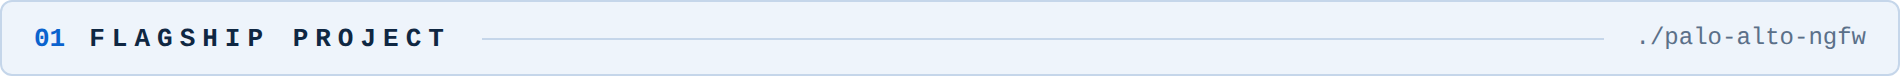
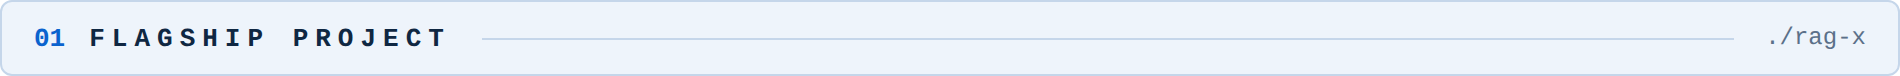
Add files via upload

Changed region(s): [[0.8384, 0.3421, 0.9937, 0.6053]]

diff --git a/README.md b/README.md
@@ -6,16 +6,17 @@
 </p>
 <p><img src="status-strip.png" width="100%" alt="Open to internship and 2027 full-time roles. Delhi-NCR. B.Tech CSE, class of 2027."></p>
 <p><img src="h-01-project.png" width="100%" alt="01 Flagship project"></p>
-<h3><a href="https://github.com/raghavguptaa/Enterprise-Network-Security-Implementation-using-Palo-Alto-Next-Generation-Firewall-NGFW-">Enterprise Network Security with Palo Alto NGFW</a></h3>
-<p><b>Hands-on Palo Alto next-generation firewall labs, built in real deployment order: from interfaces to SSL decryption.</b></p>
-<p><img src="stats-project.png" width="100%" alt="10 lessons, 2 security zones, 11 lesson folders"></p>
-<p><img src="diagram-topology.png" width="100%" alt="Ubuntu VM in the Trust zone, through the Palo Alto VM-Series firewall, to VMware NAT in the Untrust zone"></p>
+<h3><a href="https://github.com/raghavguptaa/rag-x">Rag X</a></h3>
+<p><b>A browser-based encryption toolkit for text, files and PDFs, with optional accounts, a contact inbox and a metadata-only activity dashboard.</b></p>
+<p><img src="stats-project.png" width="100%" alt="AES-256-GCM encryption, 600,000 PBKDF2 iterations, no secrets stored on the server"></p>
+<p><img src="diagram-ragx.png" width="100%" alt="Architecture: the browser encrypts text, files and vault data with the Web Crypto API; the Flask server handles PDFs, accounts and the inbox; the database stores accounts, messages and a metadata-only log"></p>
 <ul>
-<li>Configured Layer 3 Trust and Untrust interfaces, static routing, source NAT and security policy rules.</li>
-<li>Built App-ID based policies, FQDN website blocking and URL filtering, then checked every change in the traffic logs.</li>
-<li>Added QoS, ICMP flood / DoS protection and SSL decryption. Every lesson has its own write-up and screenshots.</li>
+<li>Text, file and vault encryption run entirely in the browser with the Web Crypto API (AES-256-GCM, plus PBKDF2-HMAC-SHA256 with 600,000 iterations for the password vault), so keys never leave the device.</li>
+<li>Hardened Flask backend: scrypt password hashing, CSRF tokens, per-IP and per-account rate limits, a strict Content Security Policy, signed HttpOnly cookies and upload limits.</li>
+<li>Accounts with password reset, a metadata-only activity dashboard, a contact inbox and an admin panel, all covered by a pytest suite.</li>
 </ul>
-<p><code>Palo Alto VM-Series</code> · <code>VMware Workstation</code> · <code>Ubuntu</code> · <code>PuTTY</code> · <code>Web GUI</code> · <a href="https://github.com/raghavguptaa/Enterprise-Network-Security-Implementation-using-Palo-Alto-Next-Generation-Firewall-NGFW-">Repository →</a></p>
+<p><code>Python</code> · <code>Flask</code> · <code>JavaScript</code> · <code>Web Crypto API</code> · <code>SQLite</code> · <code>pytest</code> · <a href="https://github.com/raghavguptaa/rag-x">Repository →</a></p>
+<p><sub>A learning and portfolio project built on standard cryptography. Not independently audited and not deployed yet.</sub></p>
 <p><img src="h-02-about.png" width="100%" alt="02 About"></p>
 <p>Final-year B.Tech Computer Science student at <b>SRM Institute of Science and Technology, Delhi-NCR</b> (CGPA 9.14/10) and a <b>Palo Alto Networks Certified Cybersecurity Practitioner</b> who builds and secures network infrastructure.</p>
 <p>I like hands-on labs where I can see the result. I built a 10-lesson Palo Alto firewall lab series from scratch, and during a cybersecurity internship I ran vulnerability assessments on Kali Linux and built a hybrid AES + RSA encryption tool in Python.</p>
@@ -35,16 +36,22 @@
 </table>
 <p><img src="h-04-certs.png" width="100%" alt="04 Certifications"></p>
 <p><img src="cert-cards.png" width="100%" alt="Palo Alto Networks Certified Cybersecurity Practitioner, Palo Alto Networks Certified Cybersecurity Apprentice, Fortinet Certified Fundamentals"></p>
-<p><img src="h-05-stack.png" width="100%" alt="05 Stack"></p>
+<p><img src="h-05-projects.png" width="100%" alt="05 More projects"></p>
+<p align="center">
+<a href="https://github.com/raghavguptaa/Enterprise-Network-Security-Implementation-using-Palo-Alto-Next-Generation-Firewall-NGFW-"><img src="project-paloalto.png" width="32%" alt="Palo Alto NGFW Labs: ten lessons on a Palo Alto VM-Series firewall in VMware"></a>
+<a href="https://github.com/raghavguptaa/aws-cloud-threat-detection-soar"><img src="project-soar.png" width="32%" alt="AWS Threat Response: automated AWS threat detection and response with CloudTrail, CloudWatch, SNS and Lambda"></a>
+<a href="https://github.com/raghavguptaa/Credit-risk-analyser"><img src="project-credit.png" width="32%" alt="Credit Risk Analyser: credit card default analysis in a Jupyter notebook"></a>
+</p>
+<p><img src="h-06-stack.png" width="100%" alt="06 Stack"></p>
 <pre>network   TCP/IP · Routing &amp; Switching · DNS · DHCP · HTTP/S · SSL/TLS · NAT<br>firewall  Palo Alto Networks (zones, policies, NAT, App-ID, logs)<br>security  VAPT · Vulnerability Management · Threat Modelling · Phishing &amp; Malware Analysis<br>defense   Log Analysis · Incident Response · Splunk<br>tools     Kali Linux · Wireshark · Nmap<br>crypto    AES-256-GCM · RSA · Web Crypto API<br>cloud     AWS (EC2 · VPC · S3 · ALB · CloudWatch · IAM · Lambda · CloudTrail · Route 53) · GCP · Azure</pre>
-<p><img src="h-06-activity.png" width="100%" alt="06 Activity"></p>
+<p><img src="h-07-activity.png" width="100%" alt="07 Activity"></p>
 <p align="center">
   <picture>
     <source media="(prefers-color-scheme: dark)" srcset="https://raw.githubusercontent.com/raghavguptaa/raghavguptaa/output/github-snake-dark.svg" />
     <img alt="snake animation" src="https://raw.githubusercontent.com/raghavguptaa/raghavguptaa/output/github-snake.svg" />
   </picture>
 </p>
-<p><img src="h-07-beyond.png" width="100%" alt="07 Beyond code"></p>
+<p><img src="h-08-beyond.png" width="100%" alt="08 Beyond code"></p>
 <p><b>Core Member, Axions Dance Club, SRM IST</b> · <code>Dec 2023 – Present</code><br>
 Dance · the one place I switch off and just move.</p>
 <p><b>Travel</b> · new states, new cities, long train rides.</p>
